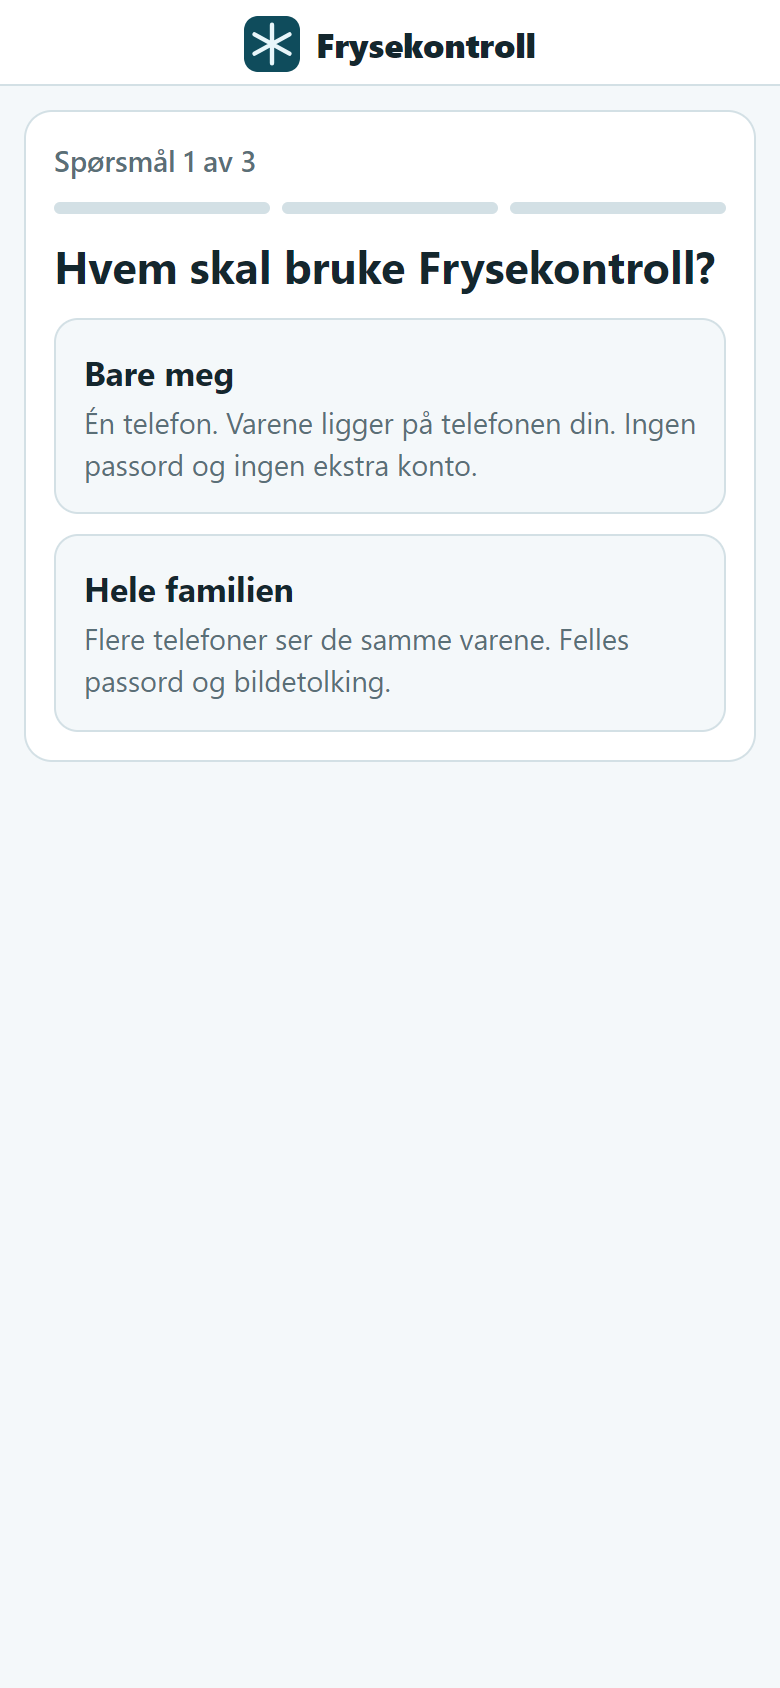
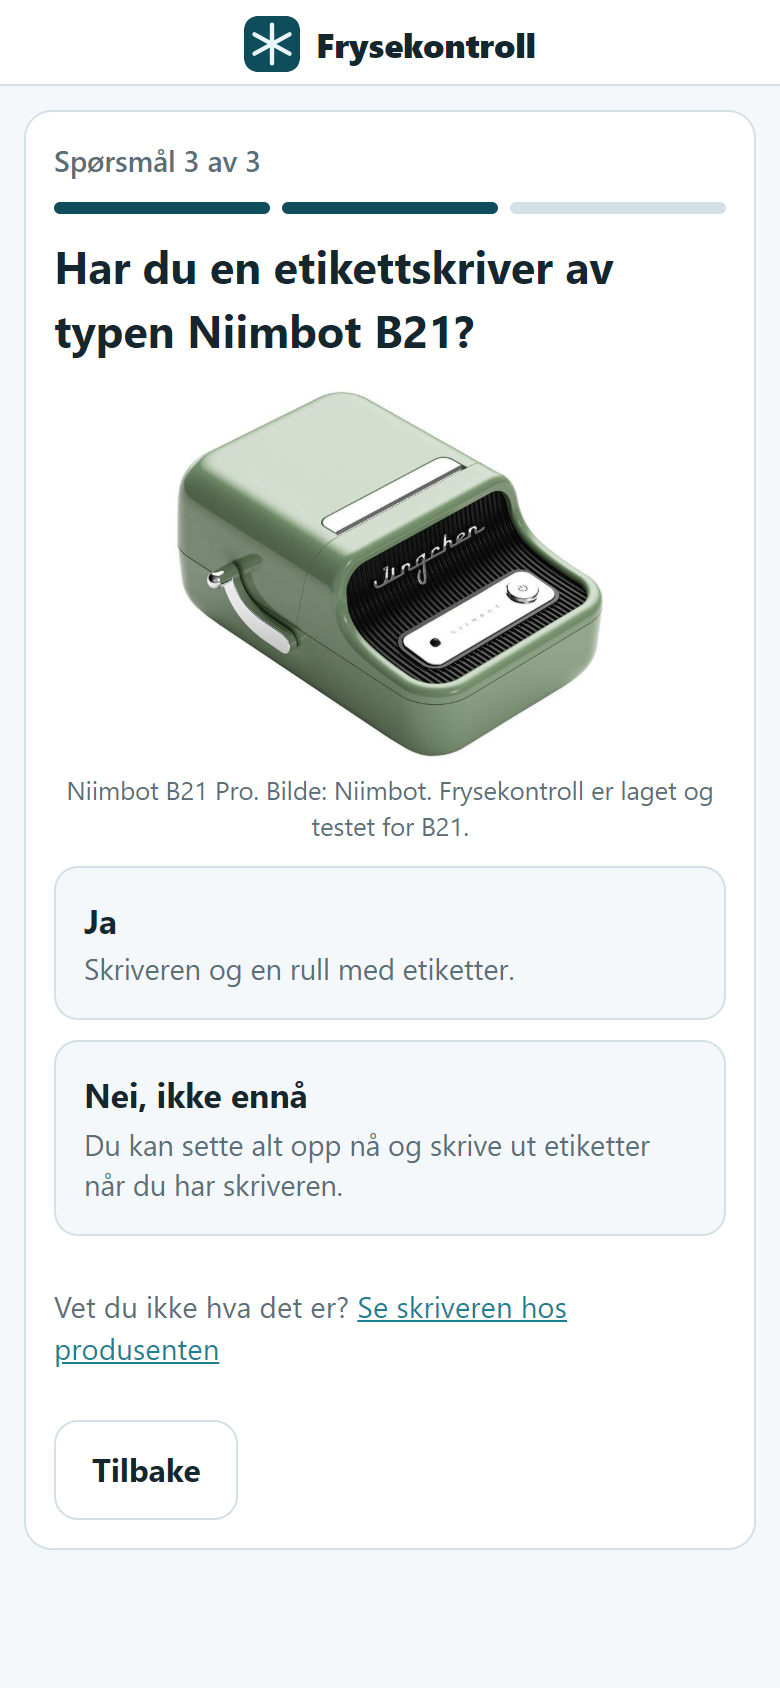
Bilde av Niimbot-skriveren i README og veiviseren

diff --git a/public/start.js b/public/start.js
@@ -23,7 +23,7 @@ const SPORSMAL = [
     { v: "iphone", t: "iPhone", s: "Du bruker appen Bluefy, siden Safari ikke kan snakke med skriveren." },
     { v: "pc", t: "Bare datamaskin", s: "Du bruker Chrome eller Edge." },
   ] },
-  { id: "skriver", tittel: "Har du en etikettskriver av typen Niimbot B21?", hjelp: { t: "Se skriveren hos produsenten", href: L.skriver }, valg: [
+  { id: "skriver", tittel: "Har du en etikettskriver av typen Niimbot B21?", hjelp: { t: "Se skriveren hos produsenten", href: L.skriver }, bilde: { src: "niimbot-b21.jpg", alt: "Niimbot-etikettskriver i grønn, sett skrått ovenfra", tekst: "Niimbot B21 Pro. Bilde: Niimbot. Frysekontroll er laget og testet for B21." }, valg: [
     { v: "ja", t: "Ja", s: "Skriveren og en rull med etiketter." },
     { v: "nei", t: "Nei, ikke ennå", s: "Du kan sette alt opp nå og skrive ut etiketter når du har skriveren." },
   ] },
@@ -59,6 +59,7 @@ function visSporsmal(q, s, nr, totalt) {
     h("div", { class: "steg" }, `Spørsmål ${nr} av ${totalt}`),
     fremdrift(nr - 1, totalt),
     h("h1", {}, q.tittel),
+    q.bilde ? h("figure", { class: "produkt" }, h("img", { src: q.bilde.src, alt: q.bilde.alt, width: "220" }), h("figcaption", {}, q.bilde.tekst)) : null,
     h("div", { class: "valg", role: "group", "aria-label": q.tittel },
       q.valg.map((o) => h("a", { href: nesteHash(s, q.id, o.v), "aria-current": svar === o.v ? "true" : null }, h("b", {}, o.t), h("small", {}, o.s)))),
     q.hjelp ? h("p", { class: "muted" }, "Vet du ikke hva det er? ", lenke(q.hjelp.href, q.hjelp.t, "")) : null,

diff --git a/public/start.css b/public/start.css
@@ -16,3 +16,6 @@
 .notater { margin: 0; padding-left: 1.2rem; display: grid; gap: 6px; }
 .resultat { display: grid; gap: var(--gap); min-width: 0; }
 a.btn { text-decoration: none; display: inline-flex; align-items: center; }
+.produkt { margin: 0; display: grid; justify-items: center; gap: 4px; }
+.produkt img { max-width: 100%; height: auto; border-radius: 12px; }
+.produkt figcaption { color: var(--muted); font-size: .8rem; text-align: center; }

diff --git a/README.md b/README.md
@@ -25,6 +25,9 @@ Alle varene på bildene er oppdiktede.
 ## Hva trenger du?
 
 **Alltid**
+
+<p align="center"><img src="public/niimbot-b21.jpg" width="260" alt="Niimbot-etikettskriver i grønn, sett skrått ovenfra"><br><sub>Niimbot B21 Pro. Bilde: Niimbot. Frysekontroll er laget og testet for B21.</sub></p>
+
 - En liten etikettskriver av typen **Niimbot B21** ([se skriveren hos produsenten](https://www.niimbot.com/us/products/b21-bluetooth-thermal-label-printer)): en lommestor termoskriver som kobles til telefonen med Bluetooth, uten blekk, og som printer etiketter opptil 48 mm brede. Du trenger også etiketter til den. Etiketter på 40 × 20 mm er det appen kjenner best, men flere størrelser kan velges i appen. Har du skriveren, har du alt du trenger av utstyr.
 - En telefon. På **Android** bruker du Chrome. På **iPhone** bruker du appen **Bluefy**, siden Safari ikke kan snakke med skriveren. Firefox virker heller ikke.
 - Skriveren kobles til med Bluetooth fra nettleseren. Ingen egen skriverapp trengs.
